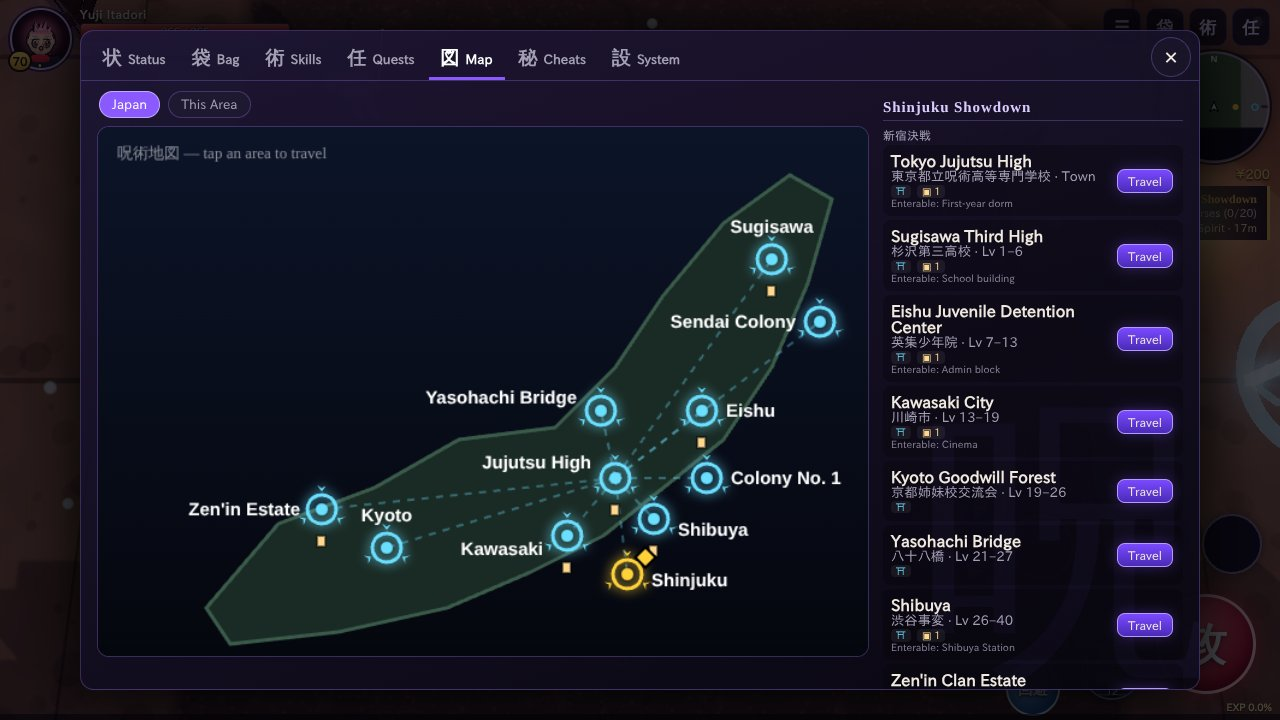
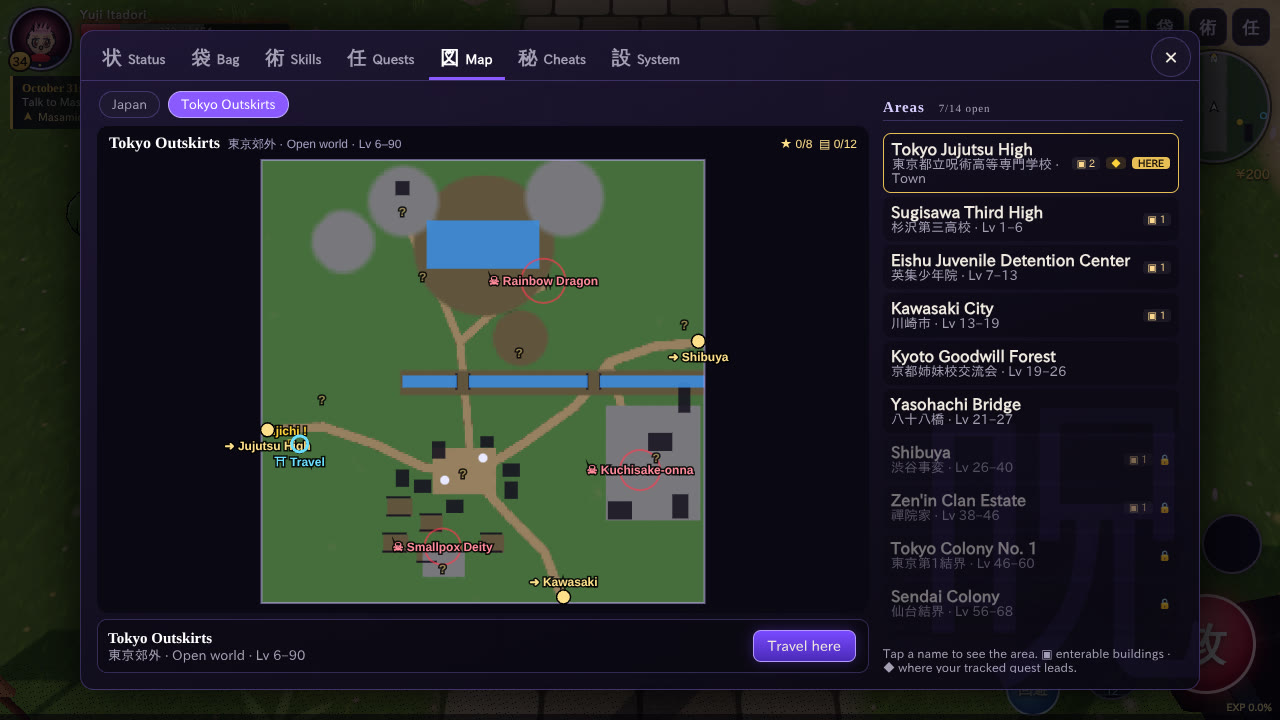
README: 1.7.0 screenshots and guide to getting models
- New screenshots: the Map tab showing the Tokyo Outskirts' layout with its
  roads, bosses, landmarks and "Travel here"; a CC0 model (RobotExpressive by
  Tomás Laulhé) worn by Yuji at Jujutsu High; and the 3D model menu with what
  it recognised in the file.
- The custom-content section says where models and sounds can come from
  (Sketchfab, Mixamo with its Idle/Walking/Running files, VRoid Hub,
  CGTrader, Freesound, Pixabay, Kenney) and what a phone handles well.

Claude-Session: https://claude.ai/code/session_01RNDSBy5GbRiHbSC8KqQifq

diff --git a/README.md b/README.md
@@ -64,6 +64,10 @@ game's own animations and stay on the phone.
 
 <table>
   <tr>
+    <td width="50%"><img src="docs/screenshots/custom-model.jpg" alt="Your own 3D model in play"><br><sub><b>Your own 3D models</b>: a CC0 robot (RobotExpressive by Tomás Laulhé) worn by Yuji, throwing the game's own uppercut</sub></td>
+    <td width="50%"><img src="docs/screenshots/models-panel.jpg" alt="The 3D model menu"><br><sub><b>Pick a model on your phone</b>: GLB, glTF, VRM or FBX, and the menu says what it recognised</sub></td>
+  </tr>
+  <tr>
     <td width="50%"><img src="docs/screenshots/yuta-domain.jpg" alt="Yuta's Authentic Mutual Love"><br><sub><b>Yuta Okkotsu</b> opens Authentic Mutual Love, a field of katanas, with Rika at his side</sub></td>
     <td width="50%"><img src="docs/screenshots/toji-play.jpg" alt="Playing as Toji Fushiguro"><br><sub><b>Toji Fushiguro</b>: no cursed energy, a stamina bar and a storehouse of cursed tools</sub></td>
   </tr>
@@ -117,7 +121,7 @@ game's own animations and stay on the phone.
   </tr>
   <tr>
     <td><img src="docs/screenshots/tracking.jpg" alt="Quest tracking"><br><sub><b>Quest tracking</b>: a ground arrow, the tracker and a minimap ◆ lead to the objective</sub></td>
-    <td><img src="docs/screenshots/map.jpg" alt="World map"><br><sub><b>Map</b>: tap an area to travel; ⛩ travel points, ▣ enterable buildings, ◆ objective</sub></td>
+    <td><img src="docs/screenshots/map.jpg" alt="Map tab"><br><sub><b>Map</b>: scroll the names, see any area's streets, doors, quest givers and bosses, and travel from there</sub></td>
   </tr>
   <tr>
     <td><img src="docs/screenshots/eso.jpg" alt="Eso at Yasohachi Bridge"><br><sub><b>Death Painting</b>: Eso's Rot Technique on the banks of Yasohachi Bridge</sub></td>
